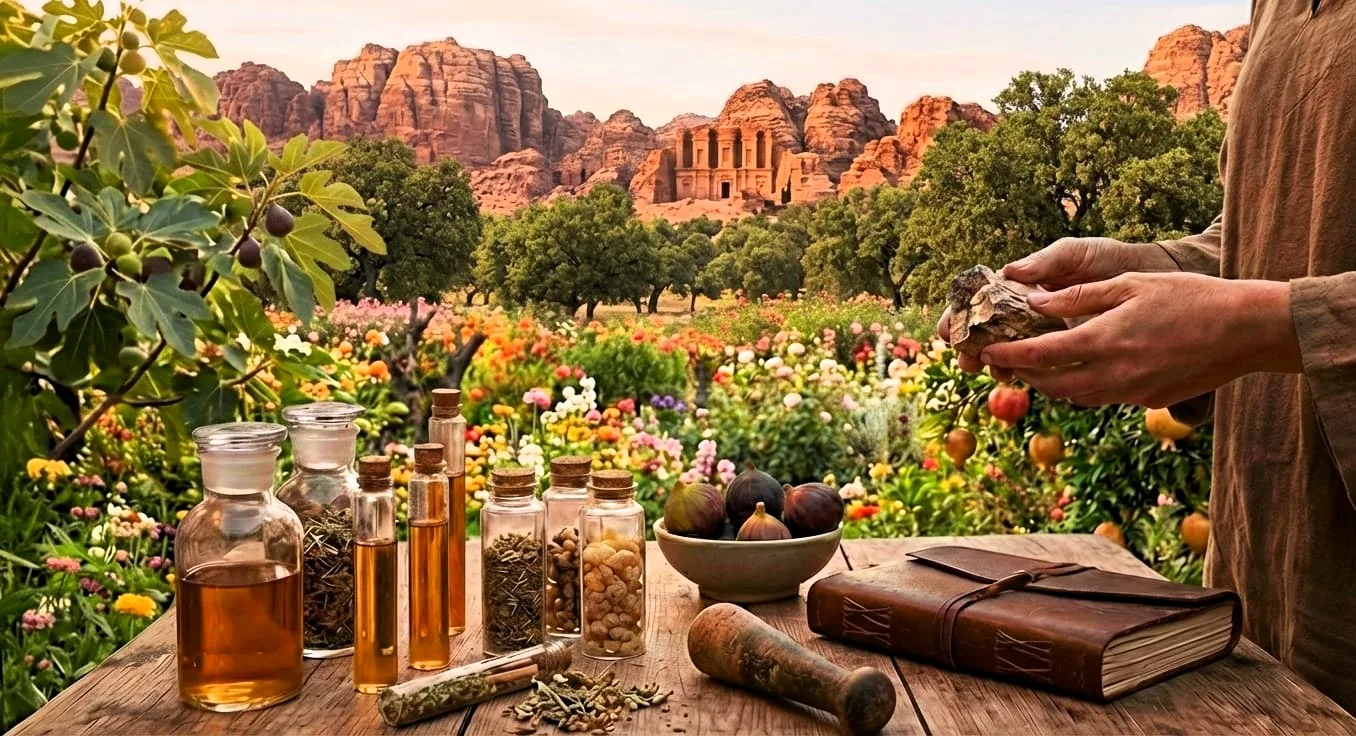
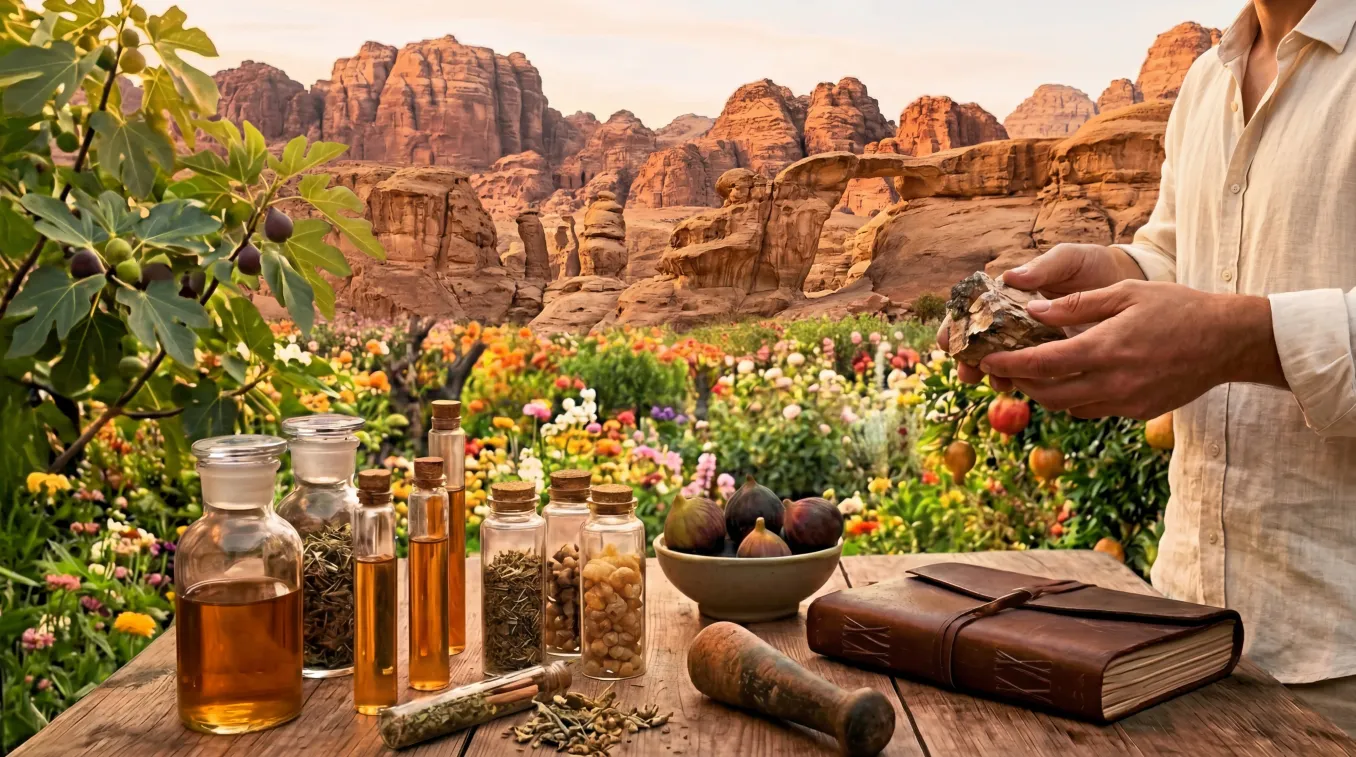
feat: story/landing page redesign — square images, craft collection, explore cards
- Landing: desert image square container, footer text opacity bump (25%→45%, 15%→35%)
- Story: "The Beginning" centered text layout, "The Craft" 502px square frame with collection shot
- Story: replaced atelier image (Wadi Rum bg + linen shirt via nano-banana)
- Products: explore card names moved below image (no more gradient overlay)
- CLAUDE.md: replaced aspect-ratio gotcha with explicit width/height pattern, updated asset list

diff --git a/server/templates/story.html b/server/templates/story.html
@@ -88,16 +88,13 @@
   }
 
   .story-origin__inner {
-    max-width: 1100px;
+    max-width: 700px;
     margin: 0 auto;
-    display: grid;
-    grid-template-columns: 1fr 1fr;
-    gap: clamp(3rem, 5vw, 5rem);
-    align-items: center;
   }
 
   .story-origin__text {
-    order: 1;
+    text-align: center;
+    margin-bottom: clamp(3rem, 5vw, 5rem);
   }
 
   .story-origin__label {
@@ -128,7 +125,7 @@
     height: 1px;
     background: #e9db90;
     border: none;
-    margin-bottom: 1.5rem;
+    margin: 0 auto 1.5rem;
   }
 
   .story-origin__body {
@@ -145,7 +142,8 @@
   }
 
   .story-origin__image {
-    order: 2;
+    overflow: hidden;
+    border-radius: 12px;
   }
 
   .story-origin__img {
@@ -197,9 +195,13 @@
   /* Tight frame around the bottle — gold corner brackets that hug the image */
   .story-craft__img-frame {
     position: relative;
-    display: inline-block;
+    display: block;
     padding: 18px;
+    box-sizing: border-box;
     z-index: 1;
+    width: 502px;
+    height: 502px;
+    overflow: hidden;
   }
 
   .story-craft__img-frame::before {
@@ -221,8 +223,8 @@
   .story-craft__img {
     position: relative;
     width: 100%;
-    max-width: 380px;
-    height: auto;
+    height: 100%;
+    object-fit: cover;
     display: block;
   }
 
@@ -462,16 +464,8 @@
      STORY PAGE - RESPONSIVE
      ═══════════════════════════════════════ */
   @media (max-width: 768px) {
-    .story-origin__inner {
-      grid-template-columns: 1fr;
-    }
-
     .story-origin__image {
-      order: 1;
-    }
-
-    .story-origin__text {
-      order: 2;
+      border-radius: 8px;
     }
 
     .story-craft__inner {
@@ -564,7 +558,7 @@
     <div class="story-craft__inner">
       <div class="story-craft__image">
         <div class="story-craft__img-frame">
-          <img src="/static/assets/pictures/Collection%20%26%20Fragrances/Bottle%20-%20White%20BG%20with%20Reflection.webp" alt="Maison Henius bottle - amber glass with golden Zamac cap" class="story-craft__img" width="1600" height="894" loading="lazy" decoding="async">
+          <img src="/static/assets/pictures/Collection%20%26%20Fragrances/craft-collection.webp" alt="The Maison Henius collection - five amber bottles on travertine pedestals" class="story-craft__img" loading="lazy" decoding="async">
         </div>
       </div>
       <div class="story-craft__text">
@@ -617,7 +611,7 @@
 
   <!-- ═══════════ PERFUMER'S TABLE (PARALLAX) ═══════════ -->
   <section class="story-parallax">
-    <img src="/static/assets/pictures/Jordan%20Landscape/Story.webp" alt="Perfumer's table with oils, figs, and raw materials" class="story-parallax__img" width="1356" height="736" loading="lazy" decoding="async">
+    <img src="/static/assets/pictures/Jordan%20Landscape/Story.webp" alt="Perfumer's table with oils, figs, and raw materials" class="story-parallax__img" width="1356" height="757" loading="lazy" decoding="async">
     <div class="story-parallax__overlay"></div>
     <div class="story-parallax__text">
       <p class="story-parallax__quote">"You do not buy a fragrance.<br>You enter a story."</p>

diff --git a/server/templates/products/detail.html b/server/templates/products/detail.html
@@ -313,23 +313,25 @@
     gap: 1.2rem; max-width: 900px; margin: 0 auto;
   }
   .product-explore__card {
-    aspect-ratio: 1; border-radius: 12px; overflow: hidden;
-    position: relative; display: block; text-decoration: none;
+    display: flex; flex-direction: column;
+    text-decoration: none; gap: 0.8rem;
+  }
+  .product-explore__card-img {
+    width: 100%; height: 100%; border-radius: 12px;
+    overflow: hidden; aspect-ratio: 1;
   }
   .product-explore__card img {
     width: 100%; height: 100%; object-fit: cover;
-    transition: transform 0.6s ease;
+    display: block; transition: transform 0.6s ease;
   }
   .product-explore__card:hover img {
     transform: scale(1.05);
   }
   .product-explore__card-name {
-    position: absolute; bottom: 0; left: 0; right: 0;
-    background: linear-gradient(to top, rgba(0,0,0,0.6), transparent);
-    padding: 1.5rem 0.8rem 0.8rem;
     font-family: 'Cormorant Garamond', serif; font-weight: 300;
     font-style: italic; font-size: 0.95rem;
-    color: rgba(245,240,232,0.8); text-align: center;
+    color: rgba(245,240,232,0.75); text-align: center;
+    letter-spacing: 0.02em;
   }
 
   /* ── Responsive ── */
@@ -496,7 +498,9 @@
     <div class="product-explore__grid">
       {% for slug, other in others.items() %}
       <a href="/products/{{ slug }}" class="product-explore__card">
-        <img src="/static/assets/pictures/Collection%20%26%20Fragrances/{{ other.card_image }}" alt="{{ other.name }}" width="1200" height="1200" loading="lazy" decoding="async">
+        <div class="product-explore__card-img">
+          <img src="/static/assets/pictures/Collection%20%26%20Fragrances/{{ other.card_image }}" alt="{{ other.name }}" width="1200" height="1200" loading="lazy" decoding="async">
+        </div>
         <span class="product-explore__card-name">{{ other.name }}</span>
       </a>
       {% endfor %}

diff --git a/server/templates/index.html b/server/templates/index.html
@@ -298,11 +298,13 @@
       position: relative;
       overflow: hidden;
       border-radius: 12px;
+      aspect-ratio: 1;
     }
 
     .about__origin-image img {
       width: 100%;
-      height: auto;
+      height: 100%;
+      object-fit: cover;
       display: block;
       filter: brightness(0.9) contrast(1.05);
     }
@@ -993,7 +995,7 @@
     <div class="story__atelier">
       <img src="/static/assets/pictures/Jordan Landscape/Story.webp"
            alt="The perfumer's atelier - oils, figs, and raw materials"
-           width="1356" height="736" loading="lazy" decoding="async">
+           width="1356" height="757" loading="lazy" decoding="async">
     </div>
   </section>
 

diff --git a/css/style.css b/css/style.css
@@ -447,18 +447,18 @@ body {
 .footer__markets {
   font-family: 'Montserrat', sans-serif;
   font-weight: 300;
-  font-size: 0.6rem;
+  font-size: 0.65rem;
   letter-spacing: 0.2em;
   text-transform: uppercase;
-  color: rgba(245, 240, 232, 0.25);
+  color: rgba(245, 240, 232, 0.45);
   margin-bottom: 1.5rem;
 }
 
 .footer__legal {
   font-family: 'Montserrat', sans-serif;
   font-weight: 300;
-  font-size: 0.55rem;
-  color: rgba(245, 240, 232, 0.15);
+  font-size: 0.6rem;
+  color: rgba(245, 240, 232, 0.35);
   letter-spacing: 0.05em;
 }
 

diff --git a/CLAUDE.md b/CLAUDE.md
@@ -29,7 +29,7 @@ server/
     layout.html           <- base template (nav, footer, Hotwire importmap, CDN scripts)
     index.html            <- landing page (extends layout)
     products/detail.html  <- single product template (data from route param, serves all 5)
-    story.html            <- Our Story / Universe page
+    story.html            <- Our Story / Universe page (centered text + image sections)
     cart.html             <- Cart page (MaisonCart localStorage)
     checkout.html         <- Checkout (requires login, creates Stripe Checkout Session)
     checkout-success.html <- Order confirmation after Stripe payment
@@ -297,10 +297,10 @@ ffmpeg has no WebP encoder on this machine - extract JPEG first, then convert wi
 - **First checkout auto-saves to profile**: `/api/checkout/create-session` checks if the user has zero saved addresses; if so, the address they typed in checkout is auto-inserted into the `addresses` table with `is_default=true`. So the second time they checkout, the address is already saved + can be reused. Wrapped in try/except so a save failure doesn't block payment. Address shows in `/profile` immediately on next visit. Trigger condition: `address.line1 AND address.city` must be present (ignores partial submissions).
 - **`/checkout/success` is self-healing** — the route uses Stripe API to verify the session, then calls `_create_order_from_stripe_session()` (the same helper the webhook uses) to create the order + clear the server cart. Idempotent via existing-order check. If you change the webhook order-creation logic, change the helper, not the webhook handler — both code paths flow through it.
 - **Don't change middleware order in `app.py`** — `CacheControlMiddleware` must be added BEFORE `GZipMiddleware`. Starlette runs `add_middleware()` calls in reverse order on responses, so the last one added is the outermost. GZip needs to wrap CacheControl so `Vary: Accept-Encoding` lands after the cache headers are set.
-- **Railway's Fastly is a passthrough, not a cache** — every response shows `x-cache: MISS` even with valid `Cache-Control` headers. Don't try to "fix" this with surrogate headers; it's a platform-level limitation. The cache headers are still useful for **browser** caching. For real shared edge caching across users, the move is Cloudflare in front of Railway when the custom domain is set up.
 - **Always check image dimensions before encoding** — `cwebp` doesn't auto-resize. If you forget `-resize WIDTH 0`, you'll ship a 4K image that displays at 600px and wastes ~1 MB per file (we did this with cards originally). Run `webpinfo file.webp` to verify dimensions after encoding.
-- **HTML `width`/`height` on images with CSS `aspect-ratio`**: adding `width="X" height="Y"` to an `<img>` is great for CLS, BUT if the CSS rule relies on `aspect-ratio` without an explicit `height`, the HTML attributes act as presentational hints (`height: Ypx`) that override `aspect-ratio` → the image renders as a tall rectangle instead of the intended square. Fix: add `height: auto` to the CSS rule. Example: `.product-comp__note-img { width: 100%; height: auto; aspect-ratio: 1; ... }`. Already bit us once on the ingredient grid on product detail pages.
+- **Square images — NEVER use `aspect-ratio`**: CSS `aspect-ratio: 1` breaks in flex containers, inline-block, and when HTML width/height attributes are present. Use explicit `width` + `height` (same value) on the container + `overflow: hidden`, then `width: 100%; height: 100%; object-fit: cover` on the `<img>`. Remove HTML `width`/`height` attributes from the `<img>` tag when using this pattern. The `aspect-ratio` approach has failed repeatedly — don't retry it.
 - **Scroll-video preloader is throttled on purpose** — `preload()` in `index.html` uses a concurrency pool of 6 (matches browser per-origin HTTP/1.1 cap) and draws `FRAME_START` the instant it arrives, rather than waiting for all 121 frames. Do NOT "simplify" this back to a tight `for (i=0; i<TOTAL; i++) new Image()` loop — that was the original P0 perf bug (blank canvas for 15+ seconds on slow networks). The `ScrollTrigger.create()` call is still deferred until all frames load, so the scroll animation contract is unchanged.
+- **Product explore cards**: `products/detail.html` "Explore More" grid uses a `.product-explore__card-img` wrapper div around the `<img>`, with the product name as a separate `<span>` below (not overlaid). Don't add gradient overlays on the image — the name is intentionally outside.
 - **`cart.js` localStorage items include `serverId`** (not just product `id`). When a logged-in user adds/updates/removes items, the cached `serverId` lets mutations go through in 1 round-trip instead of 2 (old pattern was GET-then-DELETE/PATCH). Legacy items without `serverId` still work via a one-off GET fallback in `_findServerItemId()`. Don't strip the field thinking it's dead code.
 
 ## Deployment (Railway)
@@ -338,7 +338,8 @@ All product/landscape images in the deployed repo are WebP. Originals (PNG/JPG) 
 |---|---|---|---|---|
 | Card images (`card-*.webp`) | **1200px** | `-q 78` | 200-300 KB each | Display ~600px on screen, retina-ready |
 | Bottle images (`Out of Control.webp` etc.) | 832px (current) | `-q 80` | ~50 KB each | Already optimal |
-| Bottle reflection (story page) | **1600px** | `-q 80` | ~32 KB | Was 5504px originally |
+| Craft collection (story page) | **1004px** | `-q 80` | ~50 KB | 2x retina for 502px display frame |
+| Story atelier (landing + story) | **1356px** | `-q 80` | ~175 KB | Full-width landscape banner |
 | Ingredient images (`ingredients/*.webp`) | **800px** | `-q 80` | ~150 KB each | Square aspect for note grid |
 | Jordan landscapes | ~1300px (current) | `-q 80` | ~150-200 KB | Already optimal |
 | Scroll video frames | 1928×1072 (current) | `-q 90` | ~50-160 KB per frame | Don't shrink — canvas needs detail |
@@ -368,7 +369,7 @@ When editing existing brand images via the `nano-banana` skill:
 4. **Promote to canonical name** by renaming after approval: `mv original.webp original-backup.webp && mv new.webp original.webp`. The `-backup` suffix is descriptive (e.g. `coffee-beans.webp`, `patchouli-dried.webp`, `card-parisian-original.webp`). Backups stay in git as fallback.
 5. **Path renaming preserves Jinja captions**: templates like `products/detail.html` build the ingredient name from the filename via `{{ img | replace('-', ' ') | title }}`. So `patchouli-green.webp` would render as "Patchouli Green" in the UI — promote to canonical `patchouli.webp` to keep "Patchouli" as the display name.
 
-Current AI-edited assets (with backups available): `patchouli.webp` (backup: `patchouli-dried.webp`), `coffee.webp` (backup: `coffee-beans.webp`), `card-parisian.webp` (backup: `card-parisian-original.webp`), `card-out-of-control.webp` (backup: `card-out-of-control-original.webp`), `Maison Henius - universe.webp` (sibling of original `Maison Henius.webp`).
+Current AI-edited assets (with backups available): `patchouli.webp` (backup: `patchouli-dried.webp`), `coffee.webp` (backup: `coffee-beans.webp`), `card-parisian.webp` (backup: `card-parisian-original.webp`), `card-out-of-control.webp` (backup: `card-out-of-control-original.webp`), `Maison Henius - universe.webp` (sibling of original `Maison Henius.webp`), `Story.webp` (backup: `Story-original.webp`, 4K source: `Story-edited.webp`), `craft-collection.webp` (4K source: `big-bottle-design-4k.webp`).
 
 ## Performance
 
